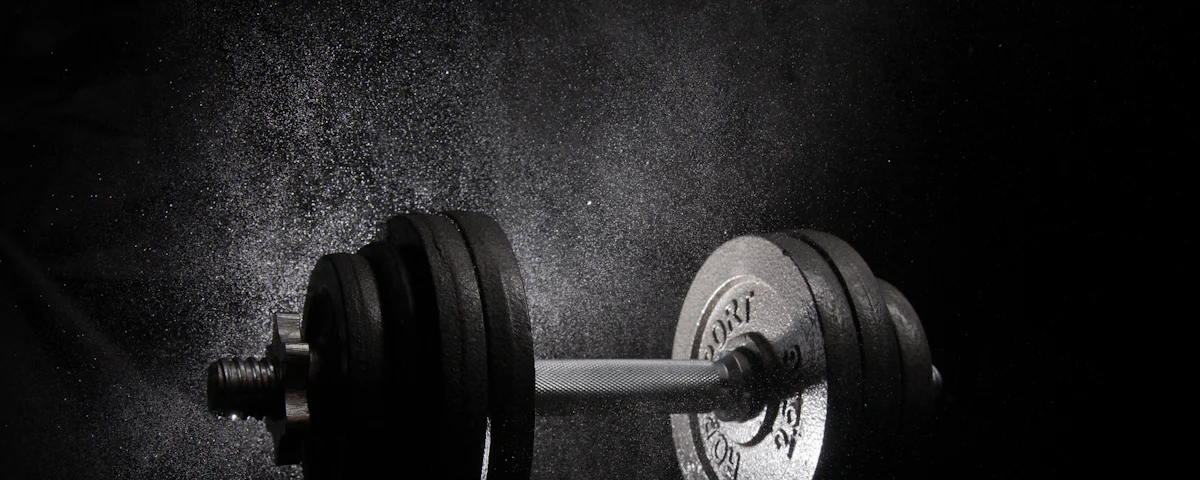
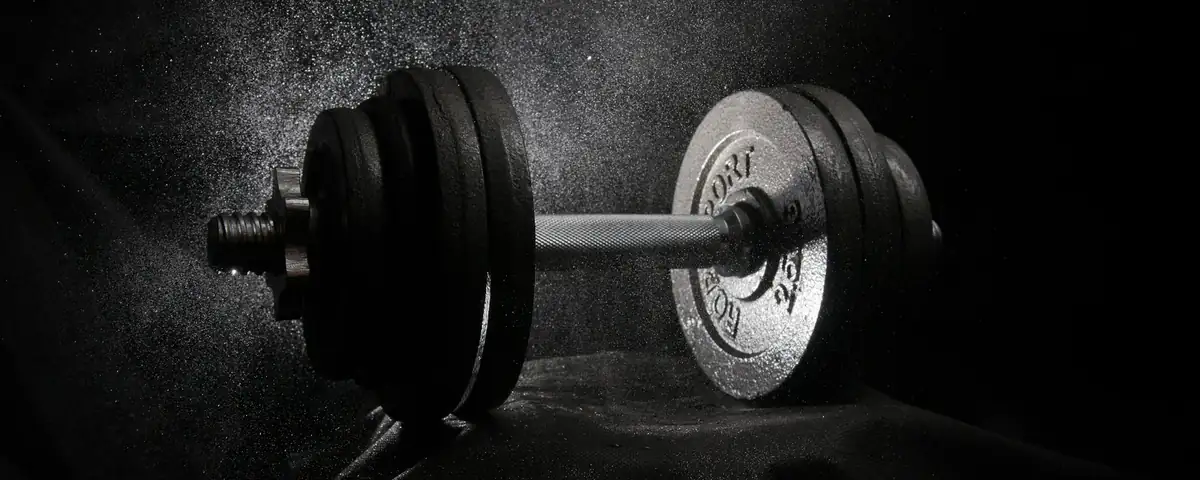
fix(progress): chart picks the point under the pointer; uncropped header dumbbell
- LineChart is drawn at its measured pixel size, so pointer position maps
  1:1 to the chart (the scaled SVG used to letterbox on wide cards and pick
  a point to the left of the cursor). The value and date show right above
  the point and align to the edge near the chart's ends.
- The Progress header photo is re-cropped from the Unsplash original so the
  dumbbell is whole and centred on phones and desktop.

diff --git a/frontend/src/components/LineChart.tsx b/frontend/src/components/LineChart.tsx
@@ -1,14 +1,16 @@
-import { useState, type PointerEvent } from 'react'
+import { useEffect, useRef, useState, type PointerEvent } from 'react'
 
 import { formatShortDate } from '../lib/format'
-import { plot, type ChartPoint } from './chart'
+import { nearestIndex, plot, type ChartPoint } from './chart'
 
-const W = 320
-const H = 140
+const PAD = 8
 
 /**
  * Jednostavan linijski grafikon kroz vreme (SVG, prilagođava se širini ekrana).
- * Dodir ili prelazak mišem pokazuje najbližu tačku: vrednost i datum.
+ *
+ * The SVG is drawn in its real pixel size (measured), so a pointer position maps 1:1 to the
+ * chart: touch or hover picks the point under the finger / cursor and its value and date are
+ * shown right above it.
  */
 export function LineChart({ points, format, label, compact = false }: {
   points: ChartPoint[]
@@ -17,69 +19,83 @@ export function LineChart({ points, format, label, compact = false }: {
   /** Lower chart for small multiples. */
   compact?: boolean
 }) {
+  const box = useRef<HTMLDivElement>(null)
+  const [width, setWidth] = useState(320)
   const [active, setActive] = useState<number | null>(null)
-  const { points: plotted } = plot(points, W, H)
+  const height = compact ? 80 : 160
+
+  useEffect(() => {
+    const el = box.current
+    if (!el) return
+    const measure = () => setWidth(Math.max(120, Math.round(el.getBoundingClientRect().width)))
+    measure()
+    if (typeof ResizeObserver === 'undefined') return
+    const observer = new ResizeObserver(measure)
+    observer.observe(el)
+    return () => observer.disconnect()
+  }, [])
+
+  const innerW = width - PAD * 2
+  const innerH = height - PAD * 2
+  const { points: plotted } = plot(points, innerW, innerH)
   if (!plotted.length) return null
+  const xy = plotted.map((p) => ({ ...p, x: p.x + PAD, y: p.y + PAD }))
   // Oznake su stvarna najveća i najmanja vrednost (grafikon ima malo prostora iznad i ispod njih).
   const max = Math.max(...points.map((p) => p.value))
   const min = Math.min(...points.map((p) => p.value))
-  const path = plotted.map((p, i) => `${i ? 'L' : 'M'}${p.x.toFixed(1)},${p.y.toFixed(1)}`).join(' ')
-  const first = plotted[0]
-  const last = plotted[plotted.length - 1]
-  const hovered = active === null ? null : plotted[active]
+  const path = xy.map((p, i) => `${i ? 'L' : 'M'}${p.x.toFixed(1)},${p.y.toFixed(1)}`).join(' ')
+  const first = xy[0]
+  const last = xy[xy.length - 1]
+  const hovered = active === null ? null : xy[active] ?? null
 
   const pick = (e: PointerEvent<SVGSVGElement>) => {
-    const box = e.currentTarget.getBoundingClientRect()
-    const x = ((e.clientX - box.left) / box.width) * (W + 12) - 6
-    let nearest = 0
-    for (let i = 1; i < plotted.length; i++) if (Math.abs(plotted[i].x - x) < Math.abs(plotted[nearest].x - x)) nearest = i
-    setActive(nearest)
+    const rect = e.currentTarget.getBoundingClientRect()
+    setActive(nearestIndex(xy, e.clientX - rect.left))
   }
+
+  // Near an edge the label is aligned to that edge instead of centred, so it is never cut off.
+  const align = !hovered ? 'center' : hovered.x < 70 ? 'left' : hovered.x > width - 70 ? 'right' : 'center'
 
   return (
     <figure className="flex flex-col gap-1">
-      <div className="flex min-h-4 justify-between gap-2 text-xs text-muted tabular-nums" aria-live="polite">
-        {hovered ? (
-          <span className="font-semibold text-ink">
-            {format(hovered.value)} <span className="font-normal text-muted">· {formatShortDate(hovered.date)}</span>
-          </span>
-        ) : (
-          <span>{format(max)}</span>
+      {!compact && <div className="text-xs text-muted tabular-nums">{format(max)}</div>}
+      <div ref={box} className="relative w-full">
+        {hovered && (
+          <div
+            className={`pointer-events-none absolute z-10 -translate-y-full whitespace-nowrap rounded-lg bg-ink px-2 py-1 text-xs text-white shadow-md tabular-nums ${
+              align === 'center' ? '-translate-x-1/2' : align === 'right' ? '-translate-x-full' : ''
+            }`}
+            style={{ left: align === 'left' ? Math.max(hovered.x - 8, 0) : align === 'right' ? Math.min(hovered.x + 8, width) : hovered.x, top: Math.max(hovered.y - 10, 0) }}
+            role="status"
+          >
+            <span className="font-semibold">{format(hovered.value)}</span>
+            <span className="text-white/70"> · {formatShortDate(hovered.date)}</span>
+          </div>
         )}
+        <svg
+          width={width}
+          height={height}
+          viewBox={`0 0 ${width} ${height}`}
+          className="block touch-pan-y overflow-visible"
+          role="img"
+          aria-label={label}
+          onPointerMove={pick}
+          onPointerDown={pick}
+          onPointerLeave={() => setActive(null)}
+        >
+          <line x1={PAD} y1={height - PAD} x2={width - PAD} y2={height - PAD} className="stroke-line" strokeWidth={1} />
+          <line x1={PAD} y1={PAD} x2={width - PAD} y2={PAD} className="stroke-line" strokeWidth={1} strokeDasharray="4 4" />
+          {hovered && <line x1={hovered.x} y1={PAD} x2={hovered.x} y2={height - PAD} className="stroke-muted/60" strokeWidth={1} />}
+          <path d={path} fill="none" className="stroke-accent" strokeWidth={2} strokeLinejoin="round" strokeLinecap="round" />
+          {xy.map((p, i) => (
+            <circle key={`${p.date}-${i}`} cx={p.x} cy={p.y} r={i === active ? 6 : compact ? 3 : 4} className="fill-card stroke-accent" strokeWidth={2} />
+          ))}
+        </svg>
       </div>
-      <svg
-        viewBox={`-6 -6 ${W + 12} ${H + 12}`}
-        className={`${compact ? 'h-20' : 'h-40'} w-full touch-pan-y overflow-visible`}
-        role="img"
-        aria-label={label}
-        onPointerMove={pick}
-        onPointerDown={pick}
-        onPointerLeave={() => setActive(null)}
-      >
-        <line x1={0} y1={H} x2={W} y2={H} className="stroke-line" strokeWidth={1} />
-        <line x1={0} y1={0} x2={W} y2={0} className="stroke-line" strokeWidth={1} strokeDasharray="4 4" />
-        {hovered && <line x1={hovered.x} y1={0} x2={hovered.x} y2={H} className="stroke-muted/50" strokeWidth={1} vectorEffect="non-scaling-stroke" />}
-        <path d={path} fill="none" className="stroke-accent" strokeWidth={2} strokeLinejoin="round" strokeLinecap="round" vectorEffect="non-scaling-stroke" />
-        {plotted.map((p, i) => (
-          <circle
-            key={`${p.date}-${p.x}`}
-            cx={p.x}
-            cy={p.y}
-            r={i === active ? 6 : compact ? 3 : 4}
-            className="fill-card stroke-accent"
-            strokeWidth={2}
-            vectorEffect="non-scaling-stroke"
-          />
-        ))}
-      </svg>
-      {min !== max && !compact && (
-        <div className="flex justify-between text-xs text-muted tabular-nums">
-          <span>{format(min)}</span>
-        </div>
-      )}
+      {min !== max && !compact && <div className="text-xs text-muted tabular-nums">{format(min)}</div>}
       <figcaption className="flex justify-between text-xs text-muted tabular-nums">
         <span>{formatShortDate(first.date)}</span>
-        {plotted.length > 1 && <span>{formatShortDate(last.date)}</span>}
+        {xy.length > 1 && <span>{formatShortDate(last.date)}</span>}
       </figcaption>
     </figure>
   )

diff --git a/frontend/src/components/chart.test.ts b/frontend/src/components/chart.test.ts
@@ -1,6 +1,6 @@
 import { describe, expect, it } from 'vitest'
 
-import { plot } from './chart'
+import { nearestIndex, plot } from './chart'
 
 describe('plot', () => {
   it('razmak po x prati datume, a y opseg ima malo prostora iznad i ispod', () => {
@@ -36,5 +36,21 @@ describe('plot', () => {
       10,
     )
     expect(points.map((p) => Math.round(p.x * 100) / 100)).toEqual([0, 1, 2])
+  })
+})
+
+describe('chart pointer mapping', () => {
+  it('picks the point under the pointer in pixel coordinates', () => {
+    const { points } = plot([
+      { date: '2026-11-01', value: 80 },
+      { date: '2026-11-08', value: 81 },
+      { date: '2026-11-15', value: 82 },
+    ], 600, 160)
+    expect(points.map((p) => Math.round(p.x))).toEqual([0, 300, 600])
+    // Just left or right of the middle point is still the middle point.
+    expect(nearestIndex(points, 290)).toBe(1)
+    expect(nearestIndex(points, 320)).toBe(1)
+    expect(nearestIndex(points, 520)).toBe(2)
+    expect(nearestIndex([], 10)).toBeNull()
   })
 })

diff --git a/frontend/src/components/chart.ts b/frontend/src/components/chart.ts
@@ -44,6 +44,14 @@ export function plot(points: ChartPoint[], width: number, height: number): { poi
   }
 }
 
+/** Index of the point closest to `x` (pixels in the chart's own coordinates). */
+export function nearestIndex(points: { x: number }[], x: number): number | null {
+  if (!points.length) return null
+  let nearest = 0
+  for (let i = 1; i < points.length; i++) if (Math.abs(points[i].x - x) < Math.abs(points[nearest].x - x)) nearest = i
+  return nearest
+}
+
 /**
  * The bar to describe: the selected one while it still exists, otherwise the last (current)
  * one. Selection is kept by key, so switching to a shorter series never points past its end.
